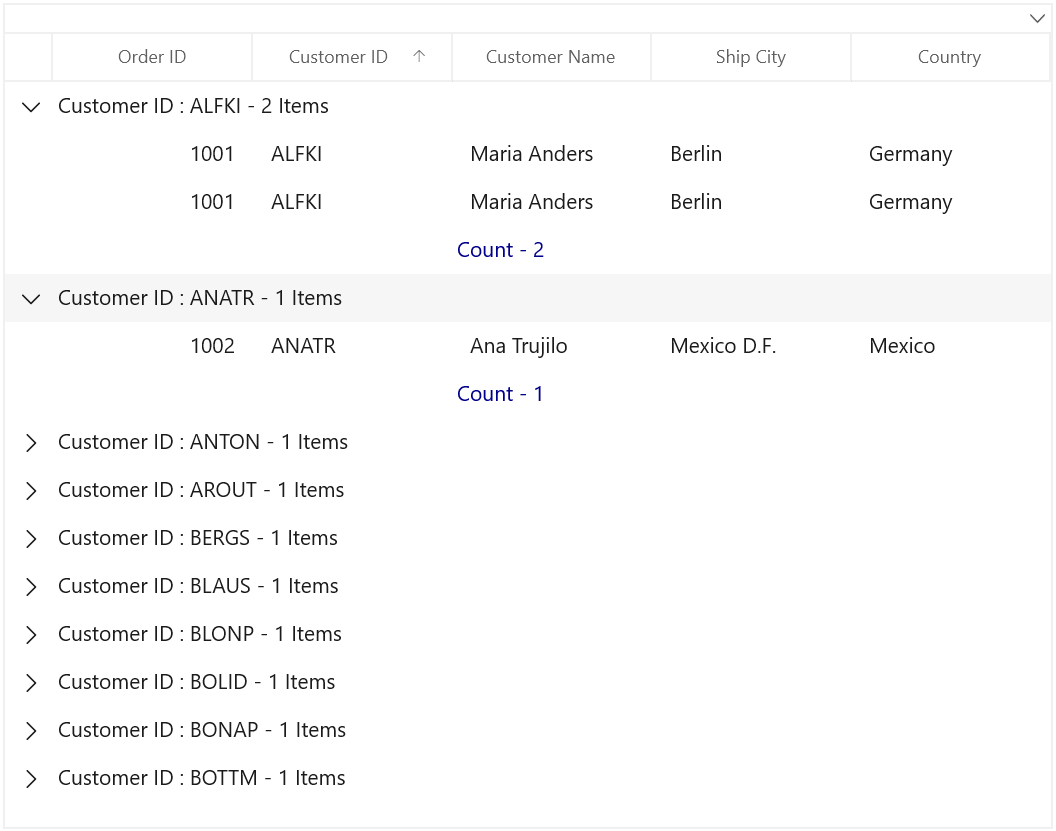
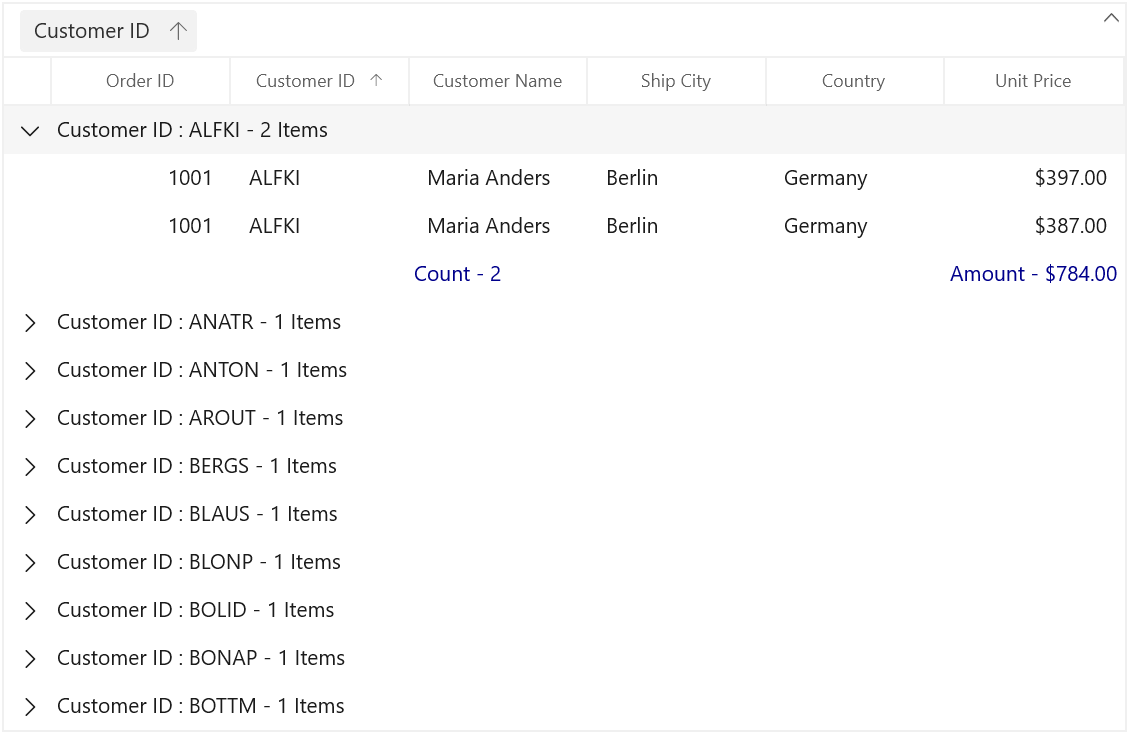
Updated image in UI customization

diff --git a/winui/DataGrid/UI-Customization.md b/winui/DataGrid/UI-Customization.md
@@ -176,12 +176,16 @@ The group summary cells can be customized by using `SyncfusionGroupSummaryRowCon
     <dataGrid:SfDataGrid.GroupSummaryRows>
         <dataGrid:GridSummaryRow ShowSummaryInRow="False">
             <dataGrid:GridSummaryRow.SummaryColumns>
+                <dataGrid:GridSummaryColumn Name="PriceAmount"
+                            Format="'Amount - {Sum:c}'"
+                            MappingName="UnitPrice"
+                            SummaryType="DoubleAggregate" />
                 <dataGrid:GridSummaryColumn Name="CustomerCount"
-                                          Format="'Count - {Count:d}'"
-                                          MappingName="CustomerName"
-                                          SummaryType="CountAggregate" />
+                            Format="'Count - {Count:d}'"
+                            MappingName="CustomerName"
+                            SummaryType="CountAggregate" />
             </dataGrid:GridSummaryRow.SummaryColumns>
-        </dataGrid:GridSummaryRow>
+         </dataGrid:GridSummaryRow>
     </dataGrid:SfDataGrid.GroupSummaryRows>
     <dataGrid:SfDataGrid.Columns>
         <dataGrid:GridNumericColumn MappingName="OrderID" HeaderText="Order ID" />
@@ -189,6 +193,7 @@ The group summary cells can be customized by using `SyncfusionGroupSummaryRowCon
         <dataGrid:GridTextColumn MappingName="CustomerName" HeaderText="Customer Name" />
         <dataGrid:GridTextColumn MappingName="ShipCity" HeaderText="Ship City" />
         <dataGrid:GridTextColumn MappingName="Country" />
+        <dataGrid:GridNumericColumn MappingName="UnitPrice" HeaderText="Unit Price" DisplayNumberFormat="C2"/>
     </dataGrid:SfDataGrid.Columns>
     <dataGrid:SfDataGrid.GroupColumnDescriptions>
         <dataGrid:GroupColumnDescription ColumnName="CustomerID" />
